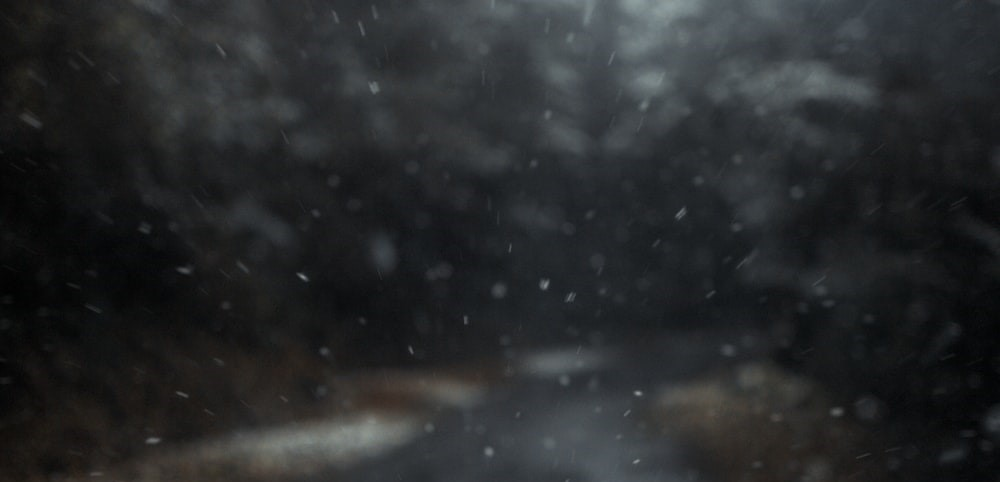
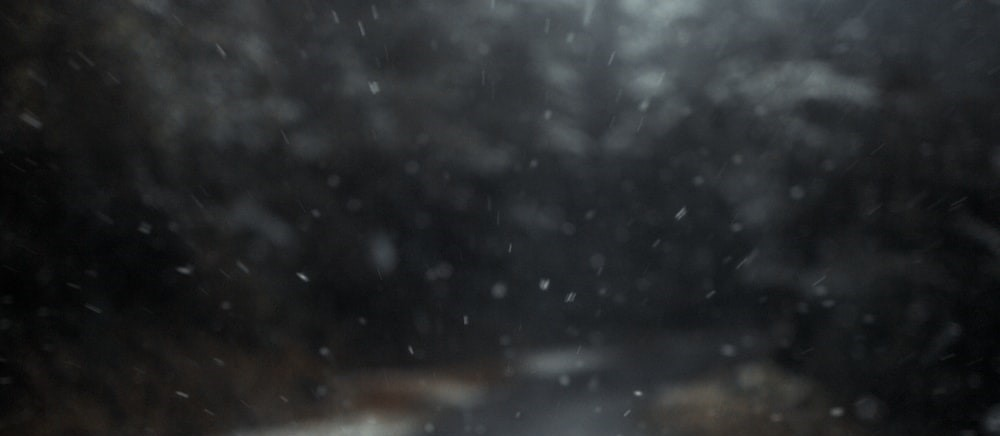
updated color scheme

diff --git a/styles.css b/styles.css
@@ -5,7 +5,7 @@ body {
   margin: 0;
   padding: 0;
   overflow-x: hidden;
-  --lightBlue: #92cbce;
+  --lightBlue: #02728a;
   --gray: #31343d;
 }
 nav {
@@ -34,6 +34,7 @@ nav a {
   padding-left: 40px;
   margin-left: -40px;
   padding-right: 10px;
+  color: white;
 }
 .right {
   float: right;
@@ -95,7 +96,7 @@ main {
 .background {
   min-height: 100%;
   max-width: 100%;
-  background-image: url(assets/pexels-karen-laårk-boshoff-7434293.jpg);
+  background-image: url(assets/pexels-tóth-viktor-5684798.jpg);
   height: 200px;
   display: flex;
   flex-wrap: wrap;
@@ -104,8 +105,10 @@ main {
 }
 .background h4 {
   margin: 20px;
-  background-color: var(--lightBlue);
+  background-color: var(--gray);
   font-size: 20px;
+  color: white;
+  padding: 5px;
 }
 
 /* creating a column and row section for the main body sections */
@@ -118,7 +121,7 @@ main {
   flex: 25%;
   border-right: 4px solid var(--gray);
   margin: 15px;
-  color: #445876;
+  color: var(--lightBlue);
 }
 
 .column1 h2 {
@@ -145,17 +148,18 @@ main {
 img {
   width: 100%;
   height: auto;
-  border: 5px solid #92cbce;
+  border: 5px solid var(--lightBlue);
 }
 .direction {
   position: absolute;
   bottom: 30px;
   left: 19px;
   font-size: 13px;
-  background-color: #92cbce;
+  background-color: var(--lightBlue);
   padding-left: 30px;
   margin-left: -19px;
   padding-right: 10px;
+  color: white;
 }
 .direction h3 {
   margin-bottom: -5px;
@@ -188,7 +192,7 @@ img {
   margin: 20px;
   font-size: 26px;
   padding-top: 60px;
-  border-bottom: 3px solid #445876;
+  border-bottom: 3px solid var(--lightBlue);
 }
 
 /* mobile responsive */
